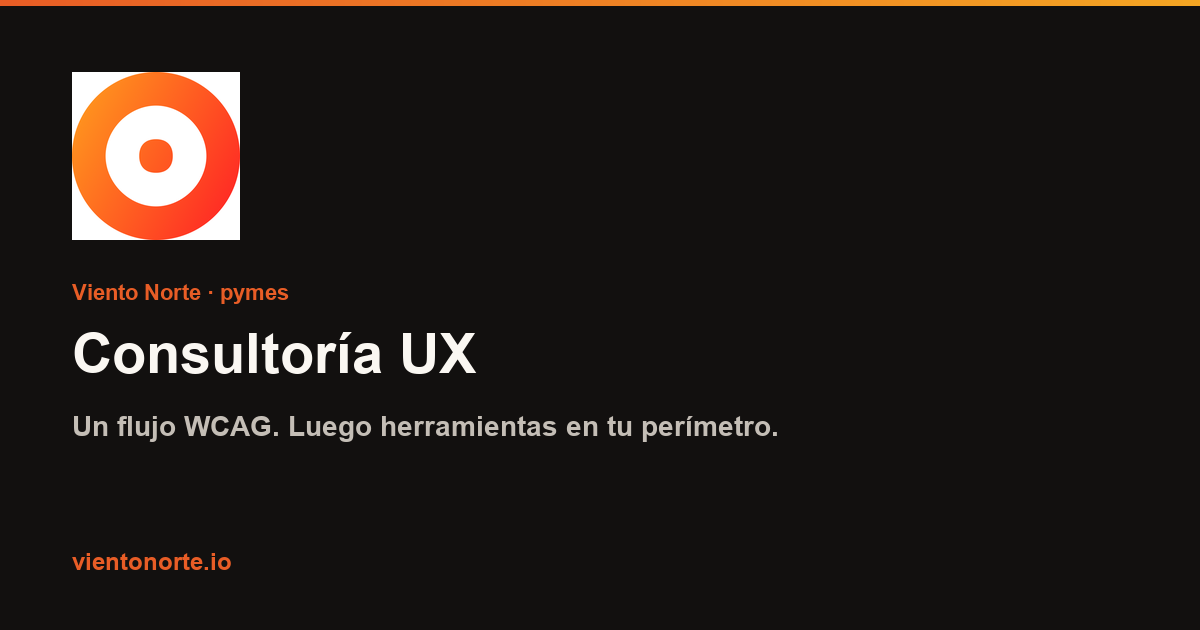
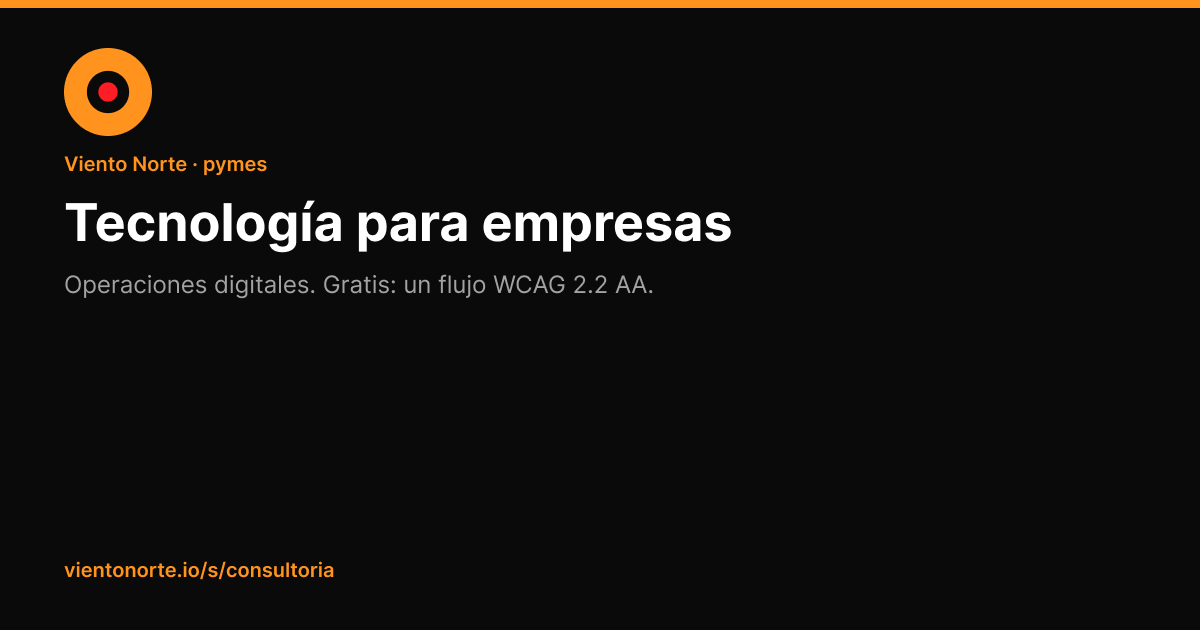
feat(ads): OG canonical Tecnología + ops and AG-D 1200×627
Replace scrape OG (white-box / jerga) with Figma 31:2: circular
isologo, H1 match landing, operaciones digitales in the sub.
Add ads/05 for Search wizard AG-D. Index lists the fifth piece.

diff --git a/public/images/ads/index.html b/public/images/ads/index.html
@@ -7,7 +7,7 @@
     <meta name="robots" content="noindex" />
     <meta
       name="description"
-      content="Índice de piezas Figma 07 para Ads: revisión de un flujo, CMS/CRM, diagnóstico. No Radar."
+      content="Índice de piezas Figma 07 para Ads: revisión de un flujo, CMS/CRM, diagnóstico, operaciones digitales. No Radar."
     />
     <style>
       :root {
@@ -70,8 +70,8 @@
     <h1>Index · Campaign assets · piloto a11y</h1>
     <p class="lead">
       Piezas Figma 07 (personas + stack) para Google Ads y el hero FO.
-      Copy Diagnóstico / a11y. No Radar, no Auditoría, no tour Apple, no rostro.
-      Isologo circular, sin recuadro blanco.
+      Copy Diagnóstico / a11y / operaciones digitales. No Radar, no Auditoría en headline, no tour Apple.
+      Isologo circular, sin recuadro blanco. 07 personas = mockup Ads, no lockup.
     </p>
     <div class="chips">
       <span>#FF1D25</span><span>#FF931E</span><span>#0A0A0A</span>
@@ -96,6 +96,10 @@
         <img src="04-1080x1080-diagnostico.png" width="1080" height="1080" alt="Diagnóstico UX 5–7 días" />
         <figcaption><strong>04 · 1080×1080</strong> Diagnóstico UX 5–7 días</figcaption>
       </figure>
+      <figure>
+        <img src="05-1200x627-operaciones-digitales.png" width="1200" height="627" alt="Operaciones digitales" />
+        <figcaption><strong>05 · 1200×627</strong> Operaciones digitales · AG-D</figcaption>
+      </figure>
     </div>
 
     <h2>Archivo Figma</h2>
@@ -118,7 +122,7 @@
         <tr><td>03</td><td>Display IAB</td><td>No gasta el 150k</td></tr>
         <tr><td>04–05</td><td>OG / Logos</td><td>Circular, sin recuadro blanco</td></tr>
         <tr><td>06</td><td>RSA paste</td><td>CID 811-405-3092 · no publicar Smart</td></tr>
-        <tr><td>07</td><td>Contexto valor</td><td>Estas 4 PNG · Ads + hero FO</td></tr>
+        <tr><td>07</td><td>Contexto valor</td><td>5 PNG · Ads + hero FO · 05 = AG-D</td></tr>
         <tr><td>08</td><td>Instagram</td><td>Orgánico · Meta paid PARKED</td></tr>
       </tbody>
     </table>

diff --git a/CHANGELOG.md b/CHANGELOG.md
@@ -9,6 +9,8 @@ Format: [Keep a Changelog](https://keepachangelog.com/es/1.0.0/)
 
 ### Changed
 - Meta, OG, JSON-LD y cuerpo crawler de `/s/consultoria` nombran **operaciones digitales** (message match AG-D) sin cambiar H1 ni el imán gratis de un flujo.
+- `og-consultoria-1200.png`: H1 **Tecnología para empresas**, sub ops + un flujo WCAG, isologo circular sin recuadro blanco.
+- Ads `05-1200x627-operaciones-digitales.png` (AG-D) en `/images/ads/`.
 
 ## [2026-08-26] — Hero: storytelling de marca (flujo · CMS/CRM)
 
